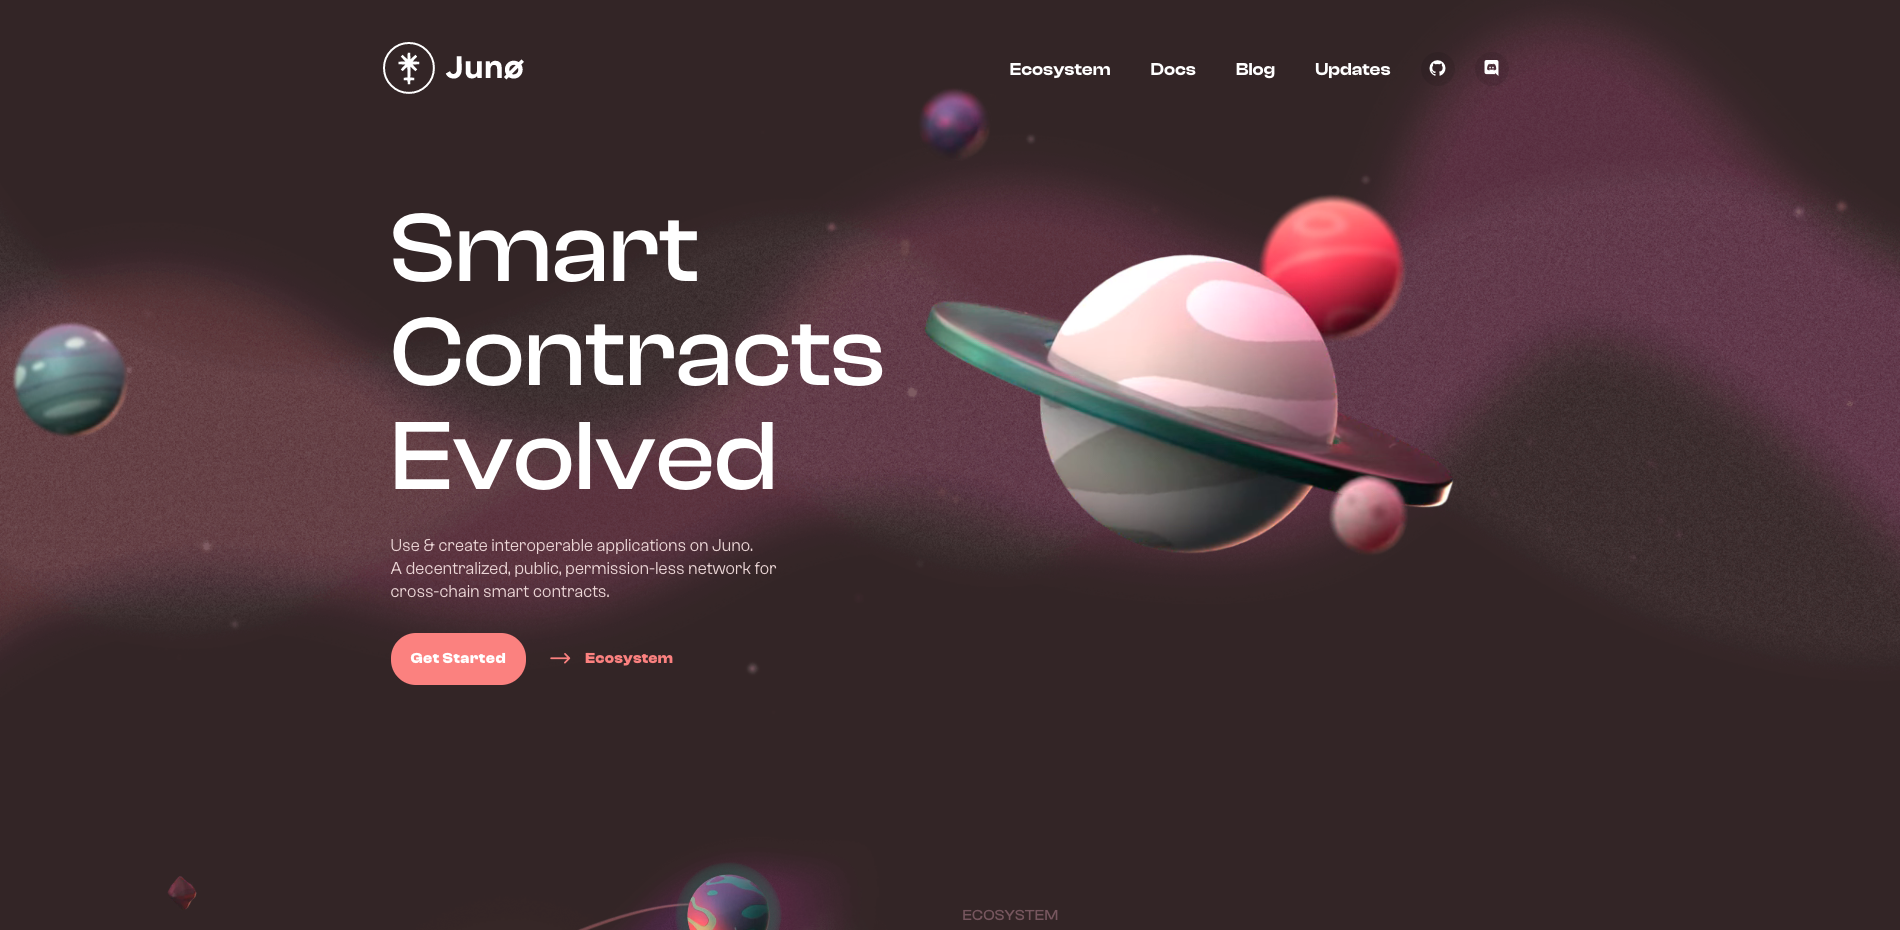
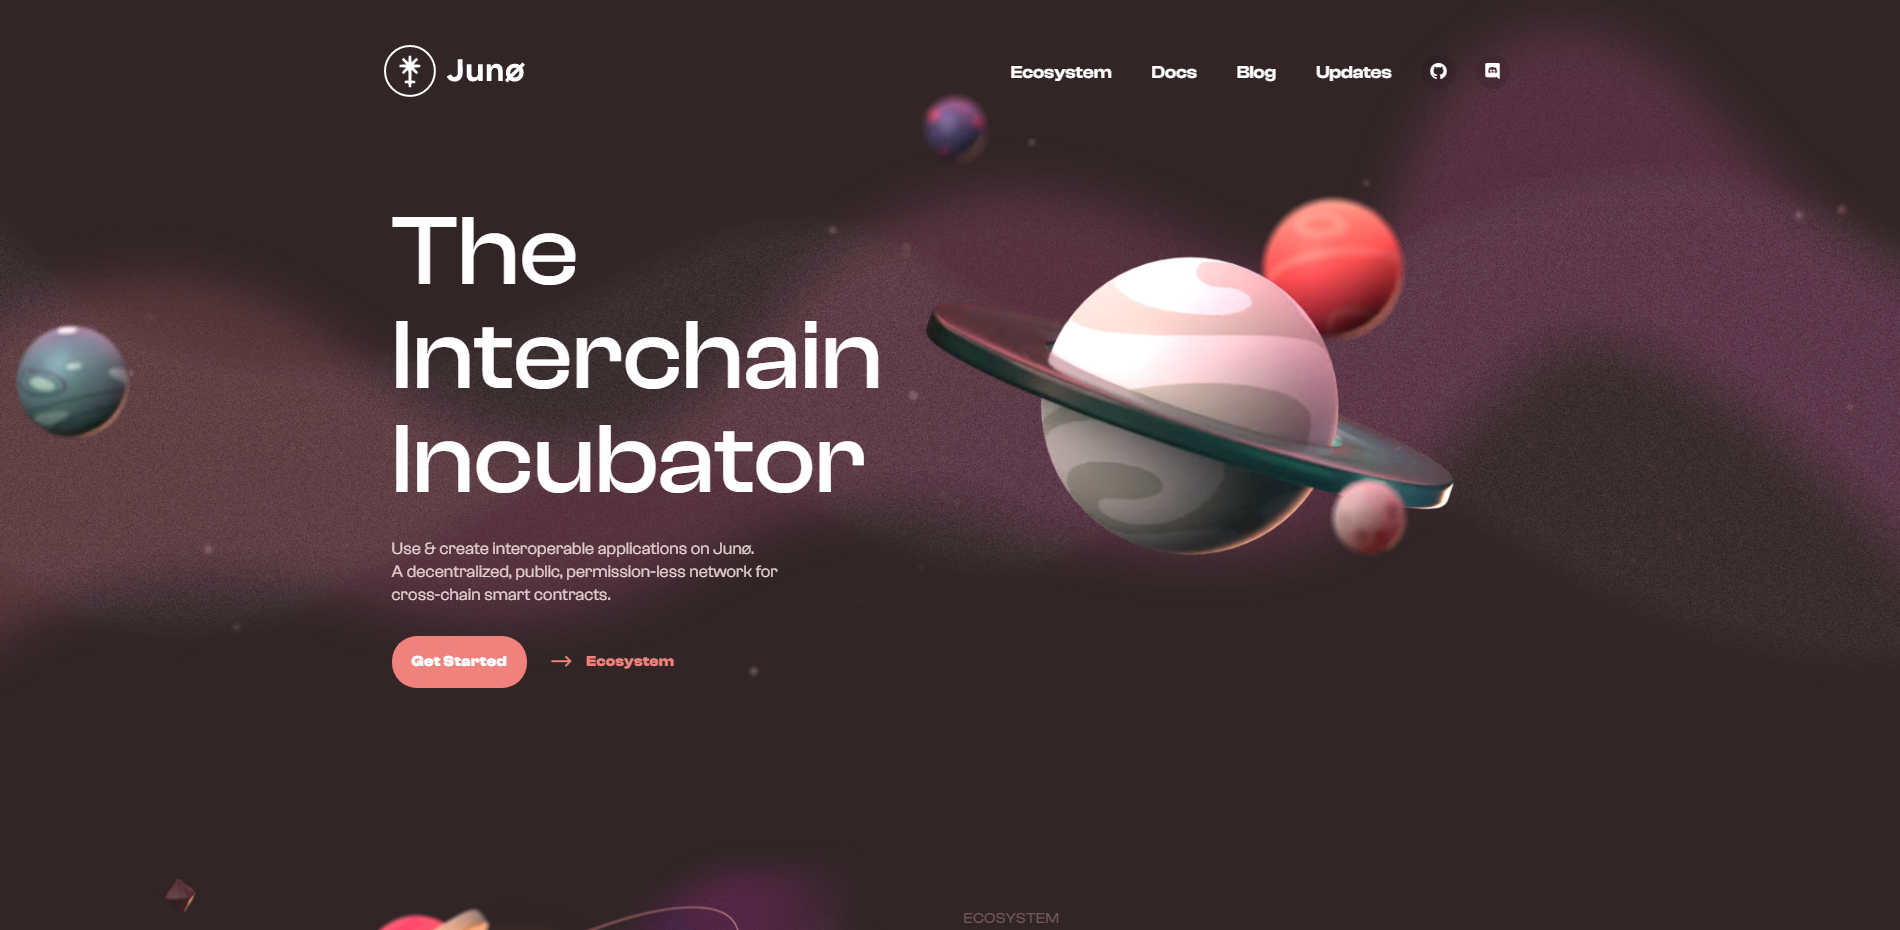
removed junoswap featuring from index page and added wynd loop hopers - added slight text and styling improvements

diff --git a/src/sections/services-section.js b/src/sections/services-section.js
@@ -42,11 +42,11 @@ export function ServicesSection() {
                                 <div className={'inner'}>
                                     <div className={'title'}>Staking Juno</div>
                                     <div className={'text-box'}>
-                                        When the staking (delegation) transaction is complete, rewards will start to be generated immediately on a block per block basis. At any time, stakers can claim their accumulated rewards, via a non-custodial wallet.
+                                        Junø is a proof-of-stake blockchain which allows users to stake their funds, as staking rewards are distributed to stakers every block. At any time, stakers can claim their accumulated rewards via their wallet.
                                         <ul>
-                                            <li>Secure the network</li>
-                                            <li>Earn rewards</li>
-                                            <li>Vote for the future</li>
+                                            <li>Secure the Network</li>
+                                            <li>Earn Staking Rewards</li>
+                                            <li>Govern the Network</li>
                                         </ul>
                                     </div>
                                     <div className={'row'}>
@@ -100,74 +100,37 @@ export function ServicesSection() {
                                 data-sal="fade"
                                 data-sal-delay="200"
                                 data-sal-duration="1000">
-                                Easy access to JunoSwap and Osmosis
+                                Easy access to Decentralized Exchanges
                             </h3>
                             <div className={'text-box pe-5'}
                                  data-sal="fade"
                                  data-sal-delay="400"
                                  data-sal-duration="1000">
-                                Swap & LP your Juno on the largest Cosmos decentralized exchanges.
+                                Swap & LP your Juno on various Interchain DEXs.
                             </div>
                             <div className={'row mt-4'}
                                  data-sal="fade"
                                  data-sal-delay="600"
                                  data-sal-duration="1000">
-                                <div className={'col-auto pb-3'}>
-                                    <a href={menu.junoswap} target={'_blank'} rel={'noreferrer'}>
-                                        <button type={'button'}>Enter JunoSwap</button>
-                                    </a>
-                                </div>
-                                <div className={'col-auto pb-3'}>
+                                <div className={'col-5 pb-3'}>
                                     <a href={menu.osmosis} target={'_blank'} rel={'noreferrer'}>
                                         <button type={'button'}>Enter Osmosis</button>
                                     </a>
                                 </div>
-                            </div>
-                        </div>
-                        <div className={'col-12 col-md-12 col-lg-7 ps-lg-5'}>
-                            <div className={'junoswap-box'}
-                                 data-sal="fade"
-                                 data-sal-delay="400"
-                                 data-sal-duration="1000">
-                                <StaticImage
-                                    src={'../images/junoswap-logo.png'}
-                                    alt={'Junoswap'}
-                                    width={258}
-                                    height={59}
-                                    placeholder="blurred"
-                                />
-                                <a href={menu['connect-keplr']} target={'_blank'} rel={'noreferrer'}
-                                   data-sal="fade"
-                                   data-sal-delay="600"
-                                   data-sal-duration="1000">
-                                    <button type={'button'} className={'button-white mt-4'}>Connect Keplr</button>
-                                </a>
-
-                                <div className={'row mt-4 pt-2 pt-lg-3'}>
-                                    <div className={'col-1'}>
-                                        <i className={'icon-hash'}></i>
-                                    </div>
-                                    <div className={'col-10'}>
-                                        Swap
-                                    </div>
+                                <div className={'col-5 pb-3'}>
+                                    <a href={menu.wynd} target={'_blank'} rel={'noreferrer'}>
+                                        <button type={'button'}>Enter Wynd</button>
+                                    </a>
                                 </div>
-
-                                <div className={'row mt-3 pt-2 pt-lg-3'}>
-                                    <div className={'col-1'}>
-                                        <i className={'icon-transfer'}></i>
-                                    </div>
-                                    <div className={'col-10'}>
-                                        Transfer
-                                    </div>
+                                <div className={'col-5 pb-3'}>
+                                    <a href={menu.loopmarkets} target={'_blank'} rel={'noreferrer'}>
+                                        <button type={'button'}>Enter Loop</button>
+                                    </a>
                                 </div>
-
-                                <div className={'row mt-3 pt-2 pt-lg-3'}>
-                                    <div className={'col-1'}>
-                                        <i className={'icon-liquidity'}></i>
-                                    </div>
-                                    <div className={'col-10'}>
-                                        Liquidity
-                                    </div>
+                                <div className={'col-5 pb-3'}>
+                                    <a href={menu.hopers} target={'_blank'} rel={'noreferrer'}>
+                                        <button type={'button'}>Enter Hopers</button>
+                                    </a>
                                 </div>
                             </div>
                         </div>

diff --git a/src/sections/hacks-section.js b/src/sections/hacks-section.js
@@ -27,13 +27,13 @@ class HackSection extends React.Component {
                                     The Moneta Hacks are the largest incentivised smart contract challenges in the world.
                                 </p>
                                 <p>
-                                    Developers from across the world may deploy smart contracts onto the permission-less interoperable smart contract base layer called Juno.
+                                    Developers from across the world may deploy smart contracts onto the permission-less interoperable smart contract base layer called Junø.
                                 </p>
                             </div>
-                            <a href={menu["hacks-and-bounties"]} target={'_blank'} rel={'noreferrer'}>
-                                <div className={'link'} data-sal="fade"
+                            <a href={menu['hacks-and-bounties']} data-sal="fade"
                                      data-sal-delay="600"
-                                     data-sal-duration="1000"><i className={'icon-arrow-right'}></i> Learn more</div>
+                                     data-sal-duration="1000" target={'_blank'} rel={'noreferrer'}>
+                                <button type={'button'}>Learn more</button>
                             </a>
                         </div>
                         <div className={'col-12 col-md-6 pt-5 pt-md-0 ps-md-5'}>
@@ -68,7 +68,7 @@ class HackSection extends React.Component {
                                         </div>
                                         <div className={'title'}>Gaming/Gamification</div>
                                         <div className={'text-box'}>
-                                            Metaverse - Creation of digital worlds, games and gamification
+                                            Metaverse - Creation of digital worlds, games and gamification.
                                         </div>
                                     </div>
                                 </div>
@@ -102,7 +102,7 @@ class HackSection extends React.Component {
                                         </div>
                                         <div className={'title'}>Privacy</div>
                                         <div className={'text-box'}>
-                                            Privacy preserving protocols on Juno
+                                            Privacy preserving protocols on Junø.
                                         </div>
                                     </div>
                                 </div>
@@ -130,7 +130,11 @@ class HackSection extends React.Component {
                             <h3 className={'mb-4'}
                                 data-sal="fade"
                                 data-sal-delay="200"
-                                data-sal-duration="1000">Interoperable Smart Contracts - Home of CosmWasm</h3>
+                                data-sal-duration="1000">Interoperable Smart Contracts</h3>
+                            <h6 className={'mb-4'}
+                                data-sal="fade"
+                                data-sal-delay="300"
+                                data-sal-duration="1000">Home of CosmWasm</h6>
                             <div className={'text-box'}
                                  data-sal="fade"
                                  data-sal-delay="400"
@@ -158,7 +162,7 @@ class HackSection extends React.Component {
                                             />
                                         </div>
                                         <div className={'title'}>Speed</div>
-                                        <div className={'text-box'}>Utilizing the Cosmos SDK & Tendermint Consensus to ensure high throughput and fast contract execution</div>
+                                        <div className={'text-box'}>Utilizing the Cosmos SDK & Tendermint Consensus to ensure high throughput and fast contract execution.</div>
                                     </div>
                                 </div>
                                 <div className={'col-12 col-sm-6'}>
@@ -173,7 +177,7 @@ class HackSection extends React.Component {
                                             />
                                         </div>
                                         <div className={'title'}>Cost</div>
-                                        <div className={'text-box'}>Low cost deployment up to 35000 times cheaper than gen 2 blockchain networks</div>
+                                        <div className={'text-box'}>Low cost deployment up to 35000 times cheaper than gen 2 blockchain networks.</div>
                                     </div>
                                 </div>
                                 <div className={'col-12 col-sm-6'}>
@@ -188,7 +192,7 @@ class HackSection extends React.Component {
                                             />
                                         </div>
                                         <div className={'title'}>Interoperability</div>
-                                        <div className={'text-box'}>Deployment on Juno and interoperable with all networks in the cosmos ecosystem via IBC</div>
+                                        <div className={'text-box'}>Deployment on Junø and interoperable with all networks in the cosmos ecosystem via IBC.</div>
                                     </div>
                                 </div>
                                 <div className={'col-12 col-sm-6'}>
@@ -204,7 +208,7 @@ class HackSection extends React.Component {
                                             />
                                         </div>
                                         <div className={'title'}>Smart Contracts</div>
-                                        <div className={'text-box'}>Code & deploy your contracts in multiple languages via the powerful CosmWasm Contract framework</div>
+                                        <div className={'text-box'}>Code & deploy your contracts in multiple languages via the powerful CosmWasm Contract framework.</div>
                                     </div>
                                 </div>
                             </div>

diff --git a/src/sections/hero-section.js b/src/sections/hero-section.js
@@ -32,15 +32,15 @@ const HeroSection = () => {
                     <div className={'col-12 col-xl-6'}>
                         <h1 data-sal="fade"
                             data-sal-delay="200"
-                            data-sal-duration="1000">Smart <br/>
-                            Contracts <br/>
-                            Evolved
+                            data-sal-duration="1000">The<br/>
+                            Interchain<br/>
+                            Incubator
                         </h1>
 
                         <div className={'text-box'} data-sal="fade"
                              data-sal-delay="400"
                              data-sal-duration="1000">
-                            Use & create interoperable applications on Juno. <br/>
+                            Use & create interoperable applications on Junø. <br/>
                             A decentralized, public, permission-less network for cross-chain smart contracts.
                         </div>
 

diff --git a/src/sections/ecosystem-section.js b/src/sections/ecosystem-section.js
@@ -41,7 +41,7 @@ const EcosystemSection = () => {
                         <div className={'text-box'} data-sal="fade"
                              data-sal-delay="600"
                              data-sal-duration="1000">
-                            Discover a wide variety of dapps, contracts, tools and DAOs built in the Junø ecosystem by developers and contributors from across the globe
+                            Discover a wide variety of dapps, contracts, tools and DAOs built in the Junø ecosystem by developers and contributors from across the globe.
                         </div>
                         <Link to={menu.ecosystem}>
                             <div className={'link'} data-sal="fade"
